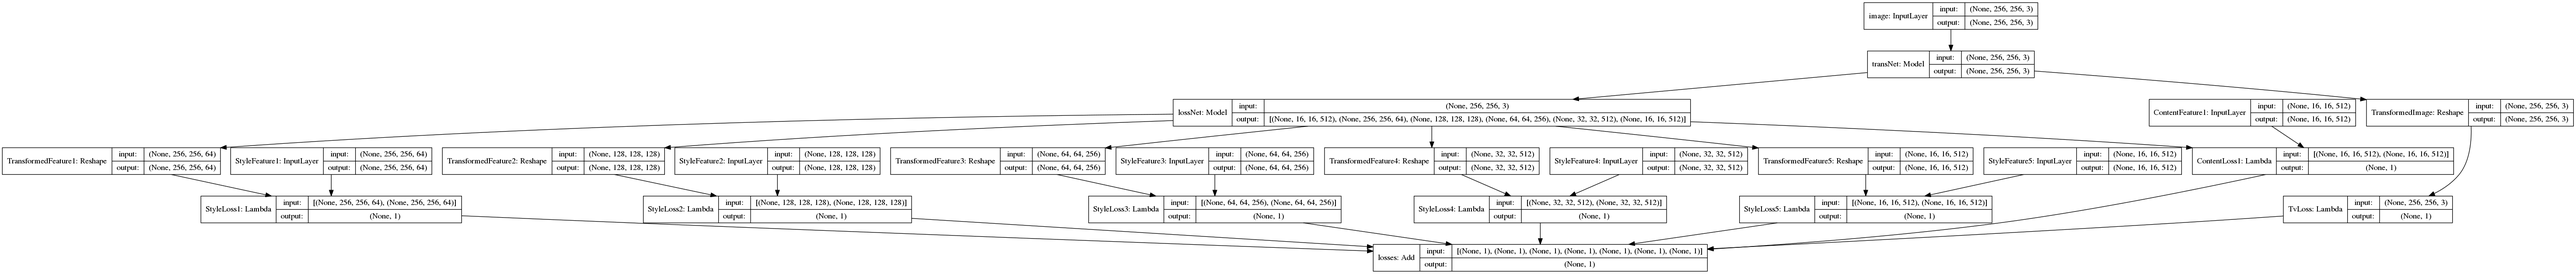
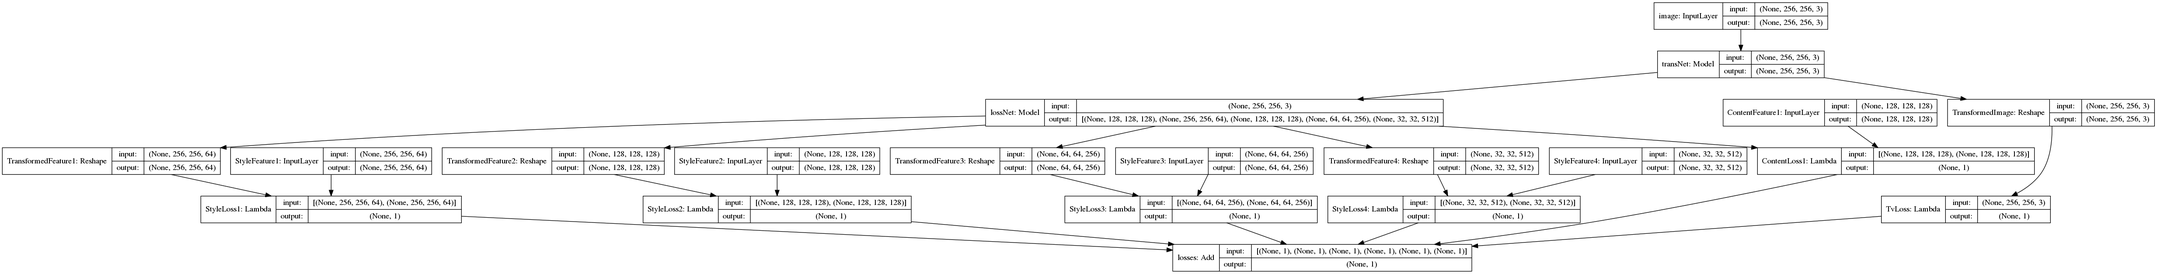
fix minor error

diff --git a/model.py b/model.py
@@ -2,7 +2,7 @@ from keras import backend as K
 from keras.layers import Input, Conv2D, Add, Conv2DTranspose, Activation, Lambda, Reshape, UpSampling2D
 from keras.models import Model
 from keras.utils import plot_model
-from keras.applications import vgg19
+from keras.applications import vgg16
 from keras_contrib.layers import InstanceNormalization
 
 from conf import img_nrows, img_ncols, style_feature_layers, content_feature_layers
@@ -115,15 +115,18 @@ def loss_net():
 
     # build the VGG19 network with pre-trained ImageNet weights loaded
     input_tensor = Input(shape=input_shape)
-    vgg19_model = vgg19.VGG19(input_tensor=input_tensor, weights='imagenet', include_top=False)
-    plot_model(vgg19_model, to_file="img/model/vgg19.png", show_shapes=True)
+    vgg16_model = vgg16.VGG16(input_tensor=input_tensor, weights='imagenet', include_top=False)
+    plot_model(vgg16_model, to_file="img/model/vgg16.png", show_shapes=True)
 
     # freeze weights
-    for layer in vgg19_model.layers:
+    for layer in vgg16_model.layers:
         layer.trainable = False
 
     # get the symbolic outputs of each "key" layer (we gave them unique names).
-    outputs_dict = dict([(layer.name, [layer.output, layer.output_shape]) for layer in vgg19_model.layers])
+    outputs_dict = dict([(layer.name, [layer.output, layer.output_shape]) for layer in vgg16_model.layers])
+
+    # for key in sorted(outputs_dict.keys()):
+    #     print(key)
 
     global is_first
     output_tensors = []

diff --git a/loss.py b/loss.py
@@ -19,7 +19,7 @@ def gram_matrix(x):
                                               int_shape[1] * int_shape[2]))
     # print(features.shape)
     # print(K.permute_dimensions(features, (0, 2, 1)).shape)
-    gram = K.batch_dot(features, K.permute_dimensions(features, (0, 2, 1))) / size
+    gram = K.batch_dot(features, K.permute_dimensions(features, (0, 2, 1))) / size / 2
     # print("gram size", gram.shape)
     return gram
 
@@ -50,7 +50,7 @@ def content_loss(x):
     assert K.ndim(base) == 4
     int_shape = K.int_shape(base)
     size = int_shape[1] * int_shape[2] * int_shape[3]
-    loss = content_weight * K.sum(K.square(combination - base), axis=[1, 2, 3]) / size
+    loss = content_weight * K.sum(K.square(combination - base), axis=[1, 2, 3]) / size / 2
     loss = K.reshape(loss, shape=(-1, 1))
     # print(loss.shape)
     return loss

diff --git a/conf.py b/conf.py
@@ -1,14 +1,13 @@
 img_nrows = 256
 img_ncols = 256
 content_weight = 1
-style_weight = 1
-tv_weight = 1
-learning_rate = 1e-4
-style_feature_layers = ['block1_conv1', 'block2_conv1',
-                        'block3_conv1', 'block4_conv1',
-                        'block5_conv1']
-content_feature_layers = ['block5_conv1']
-style_name = "denoised_starry"
+style_weight = 5
+tv_weight = 1e-6
+learning_rate = 1e-3
+style_feature_layers = ['block1_conv2', 'block2_conv2',
+                        'block3_conv3', 'block4_conv3']
+content_feature_layers = ['block2_conv2']
+style_name = "candy"
 style_image_dirpath = "img/style/raw"
 style_feature_dirpath = "img/style/feature"
 train_image_dirpath = "img/train/raw"

diff --git a/main.py b/main.py
@@ -13,11 +13,6 @@ import tensorflow as tf
 import time
 
 
-
-loss_model = None
-trans_model = None
-
-
 def get_file_paths(path):
     paths = []
     for file in os.listdir(path):
